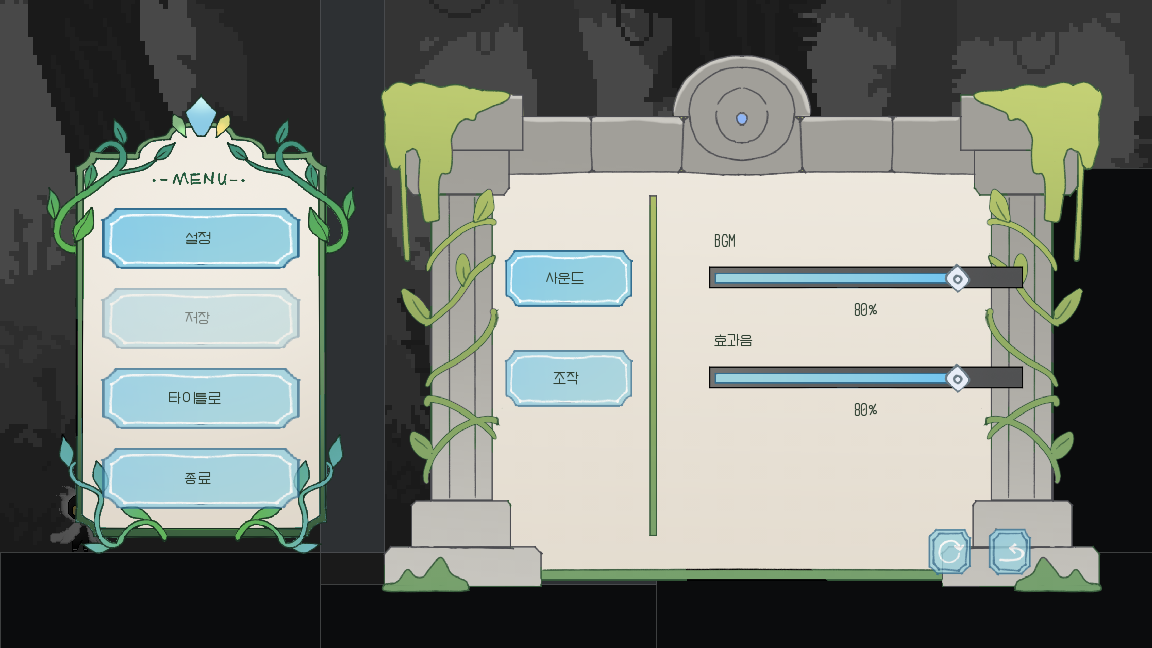
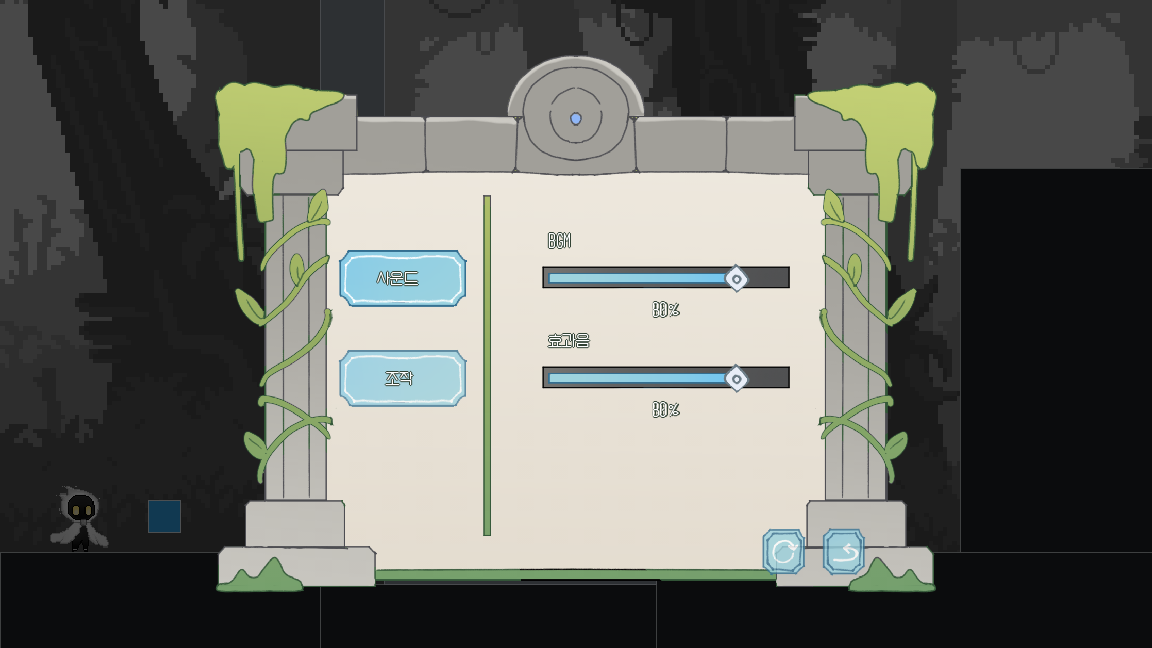
중앙 메뉴 전환과 흰색 설정 UI 프리뷰 및 안내 갱신

diff --git a/README.md b/README.md
@@ -29,11 +29,14 @@
 ## 설정 화면
 
 새 `image/ui/ui.png`의 채색된 메뉴판·돌기둥 프레임·파란 버튼으로 설정 화면을 구성합니다.
-왼쪽 메뉴는 위에서부터 설정 → 저장 → 타이틀로 → 종료 순서입니다.
-게임 중 설정을 누르면 오른쪽 패널이 열리고, 패널 안의 사운드·조작 버튼으로 페이지를 전환합니다.
+게임 중 메뉴판은 화면 중앙에 표시하며, 위에서부터 설정 → 저장 → 타이틀로 → 종료 순서입니다.
+설정을 누르면 메뉴판이 사라지고 중앙의 설정 패널로 교체됩니다.
+패널 안의 사운드·조작 버튼으로 페이지를 전환하고 되돌아가기로 중앙 메뉴판으로 돌아갑니다.
 타이틀에서 설정을 누르면 왼쪽 메뉴 없이 설정 패널을 화면 중앙에 바로 표시합니다.
 메뉴와 페이지 버튼에는 이름을 표시하며, 기본값·되돌아가기 버튼만 글씨를 넣지 않습니다.
+글씨는 18픽셀 흰색이며 밝은 프레임 위에서도 읽히도록 얇은 어두운 테두리를 더합니다.
 음향 설정의 배경음악·효과음 슬라이더는 클릭하거나 드래그하여 각각 0~100%로 조절합니다.
+음량 바와 최대 음량의 손잡이가 모두 기둥 안쪽에 머물도록 폭을 줄였습니다.
 창을 닫았다 열어도 실행 중 음량 값이 유지됩니다.
 패널 맨 아래 두 버튼은 기본값(원형 화살표), 되돌아가기(왼쪽 화살표)이며 글씨 없이 배치합니다.
 기본값으로 음량을 80%로 초기화하고, 되돌아가기로 오른쪽 패널만 닫습니다.
